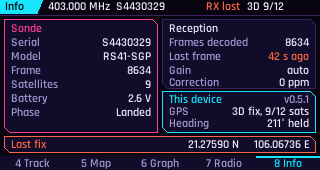
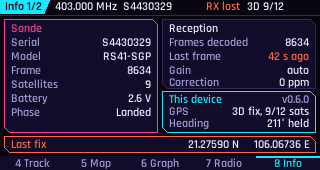
chore: version 0.6.0
Claude-Session: https://claude.ai/code/session_01NC5LhUc5V3FGkxE6anuYHf

Changed region(s): [[0.0625, 0.0, 0.5625, 0.0882], [0.875, 0.5588, 0.9688, 0.6176]]

diff --git a/docs/deployment-guide.md b/docs/deployment-guide.md
@@ -1,6 +1,6 @@
 # Deployment Guide
 
-Last updated: 2026-11-20 (version 0.5.1).
+Last updated: 2026-11-20 (version 0.6.0).
 
 Covers building the CardputerZero `.deb`, running the tests, installing and configuring the app on the device, and
 the release steps. Commands are taken from `CMakePresets.json`, `.github/workflows/` and the CMake files in `cmake/`.
@@ -30,7 +30,7 @@ the release steps. Commands are taken from `CMakePresets.json`, `.github/workflo
 | `render` | Headless screenshot tool (`SC_RENDER=ON`) | `render-rel` | none |
 
 Workflow presets: `cp0-native-package` (configure, build, package on the device) and `cp0-cross-package`.
-Package output goes to `dist/`, named `sondechase_<version>-rev1_arm64.deb` (for example `sondechase_0.5.1-rev1_arm64.deb`).
+Package output goes to `dist/`, named `sondechase_<version>-rev1_arm64.deb` (for example `sondechase_0.6.0-rev1_arm64.deb`).
 
 Options in `CMakeLists.txt`:
 
@@ -47,7 +47,7 @@ Requires Debian 13 arm64 on the CardputerZero (or any aarch64 Debian 13 host):
 ```sh
 sudo apt install cmake ninja-build build-essential git
 cmake --workflow --preset cp0-native-package
-sudo apt install --no-install-recommends ./dist/sondechase_0.5.1-rev1_arm64.deb
+sudo apt install --no-install-recommends ./dist/sondechase_0.6.0-rev1_arm64.deb
 ```
 
 The first build fetches LVGL v9.5.0 (git) and the `radiosonde_auto_rx` v1.9.0 release tarball (SHA-256 pinned in
@@ -81,7 +81,7 @@ ctest --test-dir build --output-on-failure
 Notes:
 - `keys.c` and the tests include `<linux/input.h>`. The build fails on macOS; use a Debian or Ubuntu host or a
   Linux container.
-- Verified on 2026-11-19 in `debian:trixie` (GCC 14.2.0): `test_core` reports **4322 checks, 0 failed**.
+- Verified on 2026-11-20 in `debian:trixie` (GCC 14.2.0): `test_core` reports **4356 checks, 0 failed**.
 - The same build prints five `-Wformat-truncation` warnings (four sites in `src/app.c` and `src/tiles.c`). They are
   listed in the [roadmap](./project-roadmap.md#known-gaps).
 - What the tests cover is listed in [system architecture](./system-architecture.md) by module. Test names are
@@ -90,7 +90,7 @@ Notes:
 ## Install and run
 
 ```sh
-sudo apt install --no-install-recommends ./sondechase_0.5.1-rev1_arm64.deb
+sudo apt install --no-install-recommends ./sondechase_0.6.0-rev1_arm64.deb
 ```
 
 Installed files:
@@ -220,7 +220,7 @@ cmake --build build/render -j
 
 ## Release procedure
 
-Steps used for 0.4.0 to 0.5.1. Keep the version identical in all places; the CMake configure step fails if
+Steps used for 0.4.0 to 0.6.0. Keep the version identical in all places; the CMake configure step fails if
 `CMakeLists.txt` and `app-builder.json` differ.
 
 1. Set the version in `CMakeLists.txt` (`project(sondechase VERSION x.y.z ...)`) and in `app-builder.json`
@@ -235,8 +235,9 @@ Steps used for 0.4.0 to 0.5.1. Keep the version identical in all places; the CMa
 6. Download the artifact, compute its checksum (`sha256sum sondechase_x.y.z-rev1_arm64.deb`), and check the
    package name and version with `dpkg-deb -I`.
 7. Tag the same commit `vx.y.z` and create a GitHub release with the `.deb` attached and the SHA-256 in the notes.
-8. Submit `app-builder.json` and the screenshots to the CardputerZero store (developer portal). The manifest rules
-   are checked by `tools/validate_app_builder.py`.
+8. Publish to the CardputerZero store with `czdev publish --deb <deb>` (from CardputerZero/AppBuilder). It opens a
+   pull request on CardputerZero/packages; an update of an existing app merges by itself once its CI passes. The
+   manifest rules are checked by `tools/validate_app_builder.py`.
 
 
 ## CI workflows

diff --git a/docs/project-roadmap.md b/docs/project-roadmap.md
@@ -1,6 +1,6 @@
 # Project Roadmap
 
-Last updated: 2026-11-20 (version 0.5.1). Versions come from `chore: version` commits and GitHub releases. The
+Last updated: 2026-11-20 (version 0.6.0). Versions come from `chore: version` commits and GitHub releases. The
 "Known gaps" list comes from the test status and limitations in the README and from the code. Nothing here is a
 commitment to a future feature.
 
@@ -18,8 +18,7 @@ commitment to a future feature.
 | 0.4.1 | 2026-11-19 04:08 | `539c908`..`59e89c7` | Tune and listen like an SDR, `Enter` sets decode; NFM, AM, USB, LSB audio with selectable width (Scan tab becomes Radio); held arrow keys keep tuning; simple map style; map pan and zoom; DNS block messages for the map; CI (tests, arm64 package, store checks); launcher icon with a radiosonde; config fix for long `rtlsdr_lib` paths |
 | 0.5.0 | 2026-11-19 14:12 | `59e89c7`..`6f6f036` | `Tab` switches screens; SDR-style start on the Radio screen; WFM audio; automatic Scan that tries peaks; tuner-range frequency entry; frame tick and ACT LED on Track and Map; GPS satellite counts; auto_rx-format log per sonde; green compass ring within 15° |
 | 0.5.1 | 2026-11-20 | `6f6f036`..`v0.5.1` | `Z` zooms the map in; zoom range 6–18; app data grouped in `data_dir` (`~/sondechase`: `sondechase.csv`, `log/`, `tiles/`), older files moved in; map tile cache 1000 MB for offline use; one CSV header per file; auto_rx log timed by the sonde's GPS time; inline `#` comments in the config; versioned tile User-Agent; live spectrum only on the Radio screen |
-
-| Unreleased | | `v0.5.1`.. | `Sym` + `R` (`-`) zooms out and `Sym` + `T` (`+`) zooms in (the driver sends them as keypad 7 and 8, which the app ignored); `Z` no longer zooms; `Q` no longer quits (hold `Esc` 3 s only, so a stray key cannot close the app); Track in plain words (distance labelled, `Go: Bear right, East`, height, drift; no degrees) and kept going from the last device fix when GPS drops out; Info 2/2 with the exact numbers; compass calibration in the app (Info, `K`, saved to `<data_dir>/compass.conf`); page number in the top-left label (`Graph 1/2`, `Info 1/2`); altitude label no longer cut off |
+| 0.6.0 | 2026-11-20 | `v0.5.1`..`v0.6.0` | `Sym` + `R` (`-`) zooms out and `Sym` + `T` (`+`) zooms in (the driver sends them as keypad 7 and 8, which the app ignored); `Z` no longer zooms; `Q` no longer quits (hold `Esc` 3 s only, so a stray key cannot close the app); Track in plain words (distance labelled, `Go: Bear right, East`, height, drift; no degrees) and kept going from the last device fix when GPS drops out; Info 2/2 with the exact numbers; compass calibration in the app (Info, `K`, saved to `<data_dir>/compass.conf`); page number in the top-left label (`Graph 1/2`, `Info 1/2`); altitude label no longer cut off |
 
 Notes:
 - Version bumps touch `CMakeLists.txt`, `app-builder.json` and both READMEs (see

diff --git a/docs/project-overview-pdr.md b/docs/project-overview-pdr.md
@@ -1,6 +1,6 @@
 # Project Overview and PDR
 
-Last updated: 2026-11-20 (version 0.5.1).
+Last updated: 2026-11-20 (version 0.6.0).
 
 ## Contents
 - [Overview](#overview)
@@ -89,7 +89,7 @@ Out of scope (decided or not planned):
 |---|---|---|
 | NFR-01 | Runs on the CardputerZero (4 cores, arm64) within its CPU budget while decoding | 15.6 % of one core for the whole app while decoding (device measurement, [deployment guide](./deployment-guide.md#device-checks)) |
 | NFR-02 | No dropped samples between the dongle and the decoder under normal load | 0 dropped in the IQ ring and the decoder pipe (device measurement) |
-| NFR-03 | Core logic is testable without hardware | `test_core`: 4322 checks, 0 failed |
+| NFR-03 | Core logic is testable without hardware | `test_core`: 4356 checks, 0 failed |
 | NFR-04 | Package installs with no build tools, only `libc6`, `curl`, `librtlsdr0 (>= 2.0.2)` | `cmake/cm0-package.cmake` |
 | NFR-05 | Works offline for everything except new map tiles | Cache and preloaded pack are used first |
 | NFR-06 | Does not stop on a missing optional peripheral (GPS, LED, audio) | Each has a disabled or retry state; see [system architecture](./system-architecture.md#failure-handling) |
@@ -101,7 +101,7 @@ Out of scope (decided or not planned):
 
 A release is accepted when all of these hold:
 
-1. `ctest` passes on a Linux core build (`-DSC_BUILD_UI=OFF`). Current: 4322 checks, 0 failed.
+1. `ctest` passes on a Linux core build (`-DSC_BUILD_UI=OFF`). Current: 4356 checks, 0 failed.
 2. The `package` workflow builds `sondechase_<version>-rev1_arm64.deb` on Debian 13 arm64 and its `ctest` passes.
 3. `tools/validate_app_builder.py` passes; `CMakeLists.txt` and `app-builder.json` have the same version.
 4. Both READMEs state the same version, keys, screens and facts.
@@ -134,7 +134,7 @@ A release is accepted when all of these hold:
 
 ## Status
 
-- Version 0.5.1 (tag `v0.5.1`, GitHub release published).
+- Version 0.6.0 (tag `v0.6.0`, GitHub release published, in the CardputerZero store).
 - Tested on hardware: scanning and decoding with a live RS41 (Y0532351), display, keyboard, PipeWire audio, magnetometer
   node, OSM tile download. Not yet tested in the field: GPS (no module fitted when this was written), the beeper, burst
   detection and landing on a real flight. Full list in the [roadmap](./project-roadmap.md#known-gaps).

diff --git a/docs/codebase-summary.md b/docs/codebase-summary.md
@@ -1,6 +1,6 @@
 # Codebase Summary
 
-Last updated: 2026-11-20 (version 0.5.1). Derived from a repomix compaction of the
+Last updated: 2026-11-20 (version 0.6.0). Derived from a repomix compaction of the
 working tree and from the line counts below. Regenerate after large changes.
 
 ## Contents
@@ -22,11 +22,11 @@ working tree and from the line counts below. Regenerate after large changes.
 | Application | `sondechase` (CardputerZero, Debian 13 arm64), LVGL 9.5.0 UI |
 | Core | `sc_core`, no LVGL, unit-tested on Linux |
 | Source size | `src/` 4766 lines (`src/sc.h` 496, `src/ui.c` 1271 the largest) |
-| Tests | `tests/test_core.c` (1052 lines), 4322 checks, all passing (GCC 14.2, Debian trixie) |
+| Tests | `tests/test_core.c` (1052 lines), 4356 checks, all passing (GCC 14.2, Debian trixie) |
 | External programs run | `fsk_demod`, `rs41mod` (built from `radiosonde_auto_rx` v1.9.0), `pacat`, `curl`, `gpsd` (socket) |
 | Runtime libraries | `librtlsdr` (loaded with `dlopen`), libc, libm, pthread |
 | License | GPL-3.0-or-later (see `LICENSE`) |
-| Store manifest | `app-builder.json` (version 0.5.1) |
+| Store manifest | `app-builder.json` (version 0.6.0) |
 
 ## Repository layout
 
@@ -90,7 +90,7 @@ Info (`8`), frequency entry (`F`), burst alert overlay and the "No SDR device fo
 
 | File | Lines | Role |
 |---|---|---|
-| `CMakeLists.txt` | 86 | Project `sondechase` 0.5.1, options `SC_BUILD_UI`, `SC_SIM`, `SC_RENDER`, targets |
+| `CMakeLists.txt` | 86 | Project `sondechase` 0.6.0, options `SC_BUILD_UI`, `SC_SIM`, `SC_RENDER`, targets |
 | `CMakePresets.json` | 90 | Presets `cp0-native`, `cp0-cross`, `linux-x86-64`, `render`; packages `cp0-native-deb`, `cp0-cross-deb`; workflows |
 | `cmake/cm0-package.cmake` | 92 | Install layout, `.deb` settings (CPack), desktop entry, conffile |
 | `cmake/radiosonde-decoders.cmake` | 45 | Downloads `radiosonde_auto_rx` v1.9.0 (SHA-256 pinned) and builds `rs41mod` and `fsk_demod` |
@@ -134,6 +134,6 @@ and BSP sysroot), `repomix-output.xml`, `__pycache__/`. `.repomixignore` exclude
 
 ## History
 
-Tags and GitHub releases: `v0.4.0`, `v0.4.1`, `v0.5.0`, `v0.5.1`.
+Tags and GitHub releases: `v0.4.0`, `v0.4.1`, `v0.5.0`, `v0.5.1`, `v0.6.0`.
 Version bumps are `chore: version x.y.z` commits (see
 [project roadmap](./project-roadmap.md#released-versions)).

diff --git a/README.vi.md b/README.vi.md
@@ -15,7 +15,7 @@
 Ứng dụng thu, giải mã và bám theo bóng thám không RS41 cho M5Stack CardputerZero (Raspberry Pi CM0, màn hình
 320×170, bàn phím 46 phím), dùng một RTL-SDR và GPS (không bắt buộc).
 
-Phiên bản 0.5.1. Đã chạy trên CardputerZero thật với RTL-SDR Blog V4: phần quét và giải mã đã được kiểm với một quả
+Phiên bản 0.6.0. Đã chạy trên CardputerZero thật với RTL-SDR Blog V4: phần quét và giải mã đã được kiểm với một quả
 RS41 đang bay (Y0532351). Chưa thử đi săn ngoài thực địa với GPS; xem [Hạn chế đã biết](#hạn-chế-đã-biết).
 
 | | |
@@ -59,11 +59,11 @@ Không có GPS thì sonde vẫn được giải mã và telemetry vẫn hiện; 
 
 ## Cài đặt
 
-Tải `sondechase_0.5.1-rev1_arm64.deb` từ [bản release mới nhất](https://github.com/hieuha/CardputerZero-Sondechase/releases/latest),
+Tải `sondechase_0.6.0-rev1_arm64.deb` từ [bản release mới nhất](https://github.com/hieuha/CardputerZero-Sondechase/releases/latest),
 chép vào máy rồi cài:
 
 ```sh
-sudo apt install --no-install-recommends ./sondechase_0.5.1-rev1_arm64.deb
+sudo apt install --no-install-recommends ./sondechase_0.6.0-rev1_arm64.deb
 ```
 
 Mở **SondeChase** từ APPLaunch. Gói cài đã kèm sẵn bộ giải mã RS41 (`fsk_demod` và `rs41mod`, lấy từ
@@ -176,7 +176,7 @@ Tài liệu kỹ thuật viết bằng tiếng Anh:
 
 ## Tình trạng test
 
-`tests/test_core.c`: 4322 phép kiểm, 0 lỗi trên Debian 13 (GCC 14.2). CI chạy test lõi trên Ubuntu và build gói arm64
+`tests/test_core.c`: 4356 phép kiểm, 0 lỗi trên Debian 13 (GCC 14.2). CI chạy test lõi trên Ubuntu và build gói arm64
 native trên Debian 13. Một `librtlsdr` giả và một bộ giải mã giả chạy trọn quy trình quét và giải mã mà không cần
 dongle. Chi tiết và số đo trên máy thật: [hướng dẫn deploy](docs/deployment-guide.md#tests).
 

diff --git a/README.md b/README.md
@@ -15,7 +15,7 @@
 RS41 radiosonde receiver, decoder and chase aid for the M5Stack CardputerZero (Raspberry Pi CM0, 320×170 LCD,
 46-key keyboard), with an RTL-SDR and an optional GPS.
 
-Version 0.5.1. Tested on a real CardputerZero with an RTL-SDR Blog V4: scanning and decoding were checked with a live
+Version 0.6.0. Tested on a real CardputerZero with an RTL-SDR Blog V4: scanning and decoding were checked with a live
 RS41 (Y0532351). GPS chasing in the field has not been tried yet; see [Known limitations](#known-limitations).
 
 | | |
@@ -59,11 +59,11 @@ Without GPS the sonde is still decoded and its telemetry shown; the beeper stays
 
 ## Install
 
-Download `sondechase_0.5.1-rev1_arm64.deb` from the [latest release](https://github.com/hieuha/CardputerZero-Sondechase/releases/latest),
+Download `sondechase_0.6.0-rev1_arm64.deb` from the [latest release](https://github.com/hieuha/CardputerZero-Sondechase/releases/latest),
 copy it to the device, and install it:
 
 ```sh
-sudo apt install --no-install-recommends ./sondechase_0.5.1-rev1_arm64.deb
+sudo apt install --no-install-recommends ./sondechase_0.6.0-rev1_arm64.deb
 ```
 
 Open **SondeChase** from APPLaunch. The package includes the RS41 decoders (`fsk_demod` and `rs41mod`, from
@@ -173,7 +173,7 @@ Everything the app keeps is in one folder, `data_dir` (default `~/sondechase`):
 
 ## Test status
 
-`tests/test_core.c`: 4322 checks, 0 failed on Debian 13 (GCC 14.2). CI runs the core tests on Ubuntu and the native
+`tests/test_core.c`: 4356 checks, 0 failed on Debian 13 (GCC 14.2). CI runs the core tests on Ubuntu and the native
 arm64 package build on Debian 13. A fake `librtlsdr` and a fake decoder run scanning and decoding end to end without
 a dongle. Details and the device measurements: [deployment guide](docs/deployment-guide.md#tests).
 

diff --git a/docs/keyboard-cheatsheet.md b/docs/keyboard-cheatsheet.md
@@ -1,6 +1,6 @@
 # SondeChase keyboard cheatsheet
 
-Every key the app reacts to, screen by screen (version 0.5.1). Keys are not case sensitive.
+Every key the app reacts to, screen by screen (version 0.6.0). Keys are not case sensitive.
 
 `Sym` works like `Shift`: hold it and press the key with the symbol (`-` on `R`, `+` on `T`). The same key without
 `Sym` keeps its letter action, so plain `R` restarts the decoder.

diff --git a/docs/system-architecture.md b/docs/system-architecture.md
@@ -1,6 +1,6 @@
 # System Architecture
 
-Last updated: 2026-11-20 (version 0.5.1).
+Last updated: 2026-11-20 (version 0.6.0).
 
 SondeChase is one C11 process on the CardputerZero. It reads the RTL-SDR in process, runs the RS41 decoder as
 a child pipeline, merges GPS and magnetometer data, and draws every screen with LVGL 9.5 on `/dev/fb0`.

diff --git a/docs/code-standards.md b/docs/code-standards.md
@@ -1,6 +1,6 @@
 # Code Standards
 
-Last updated: 2026-11-20 (version 0.5.1). Describes the conventions the code already follows, so new code matches.
+Last updated: 2026-11-20 (version 0.6.0). Describes the conventions the code already follows, so new code matches.
 
 ## Contents
 - [Language and build](#language-and-build)
